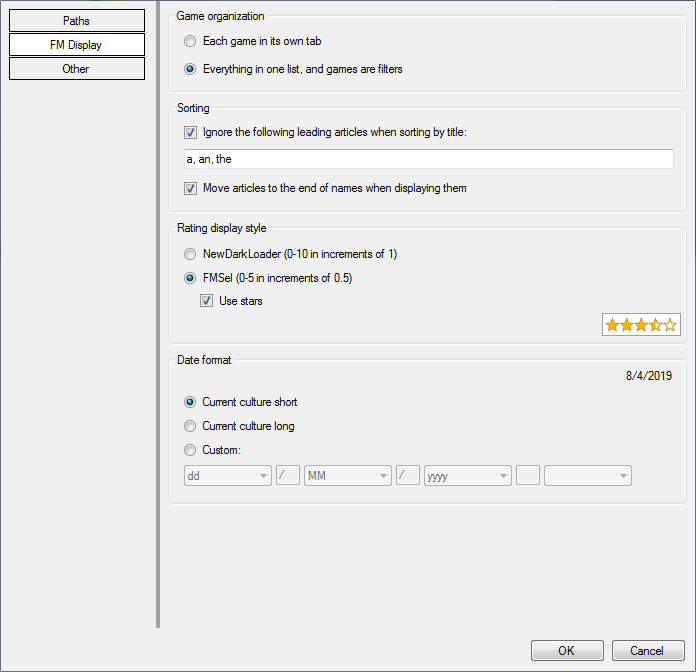
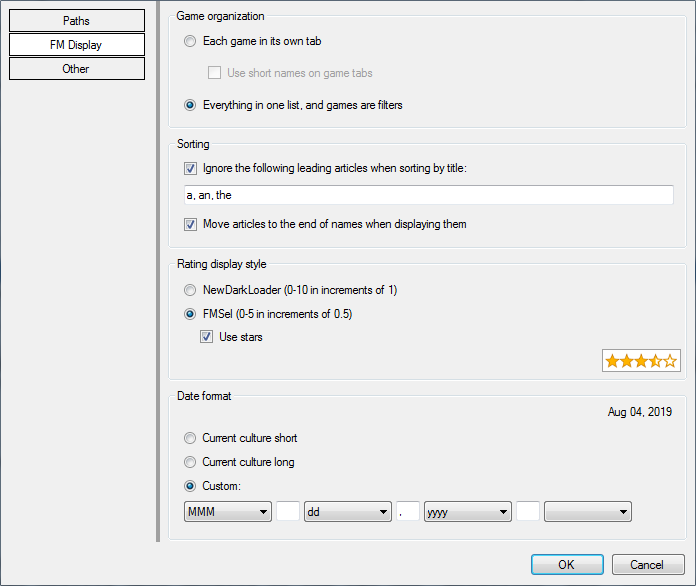
Update doc and lang changelog for v1.2

diff --git a/doc/AngelLoader documentation.html b/doc/AngelLoader documentation.html
@@ -40,7 +40,7 @@ div.headerElements:before {
 
 
 <h1><img src="images/AngelLoader_Icon_48.png" style="vertical-align:middle" /> AngelLoader</h1>
-<h4>A fan mission loader for Thief Gold, Thief II: The Metal Age, and Thief: Deadly Shadows</h4>
+<h4>A fan mission loader for Thief Gold, Thief II: The Metal Age, Thief: Deadly Shadows, and System Shock 2</h4>
 
 <h4>Official documentation</h4>
 
@@ -108,11 +108,11 @@ Currently AngelLoader is portable-only, so it must be placed in a non-protected 
 If other languages are available, you can choose them here. Changes will take effect immediately.
 
 <h4><a name="paths_to_game_exes" />Paths to game executables</h4>
-Here you can choose the executable files for the Thief games you have installed. These fields are optional - you can set some, all, or none. You will still be able to see and manage all of your fan missions even if you haven't set their corresponding executable, but of course you won't be able to install or play any of them unless their executable is set.
-<p><b>Thief 1</b> and <b>Thief 2</b> must be patched with NewDark in order for AngelLoader to be able to use them. <b>Thief 3</b> must be patched with the Sneaky Upgrade. Version 1.1.9.1 or above is recommended; while versions as far back as 1.1.3 may work, they haven't been tested and are not officially supported.</p>
+Here you can choose the executable files for the supported games you have installed. These fields are optional - you can set some, all, or none. You will still be able to see and manage all of your fan missions even if you haven't set their corresponding executable, but of course you won't be able to install or play any of them unless their executable is set.
+<p><b>Thief 1</b>, <b>Thief 2</b> and <b>System Shock 2</b> must be patched with NewDark in order for AngelLoader to be able to use them. <b>Thief 3</b> must be patched with the Sneaky Upgrade. Version 1.1.9.1 or above is recommended; while versions as far back as 1.1.3 may work, they haven't been tested and are not officially supported.</p>
 
 <h4>Steam options</h4>
-If you own one or more Thief games on Steam, you can specify the location of <code>steam.exe</code> and choose which games should be launched through it. Launching a game in this way enables access to Steam features such as the in-game overlay, play time counter, etc.
+If you own one or more supported games on Steam, you can specify the location of <code>steam.exe</code> and choose which games should be launched through it. Launching a game in this way enables access to Steam features such as the in-game overlay, play time counter, etc.
 
 <h4>FM backup path</h4>
 This is a required field. This is the folder that will be used for backing up saves, screenshots, and/or full differential backups when you uninstall a fan mission.
@@ -210,6 +210,7 @@ Displays an icon based on which game the mission is for. If unknown, it will be 
 <img src="images/Thief1_21.png" /> - Thief<br>
 <img src="images/Thief2_21.png" /> - Thief II<br>
 <img src="images/Thief3_21.png" /> - Thief: Deadly Shadows<br>
+<img src="images/Shock2_21.png" /> - System Shock 2<br>
 <img src="images/red_circle_question_mark_21.png" /> - Unsupported mission or non-mission archive (these only appear when the <a href="#show_junk">Show Unsupported</a> filter is enabled).</p>
 
 <h4>Installed</h4>
@@ -233,10 +234,10 @@ Displays the FM's rating using the <a href="#settings_rating_display_style">sele
 <h4>Finished</h4>
 Displays an icon representing which difficulty or difficulties you've finished an FM on.
 <p>
-<img src="images/Finished_Normal.png" /> - <b>Normal</b> (<b>Easy</b> for Thief: Deadly Shadows)<br>
-<img src="images/Finished_Hard.png" /> - <b>Hard</b> (<b>Normal</b> for Thief: Deadly Shadows)<br>
-<img src="images/Finished_Expert.png" /> - <b>Expert</b> (<b>Hard</b> for Thief: Deadly Shadows)<br>
-<img src="images/Finished_Extreme.png" /> - <b>Extreme</b> (<b>Expert</b> for Thief: Deadly Shadows)<br>
+<img src="images/Finished_Normal.png" /> - <b>Normal</b> (<b>Easy</b> for Thief: Deadly Shadows and System Shock 2)<br>
+<img src="images/Finished_Hard.png" /> - <b>Hard</b> (<b>Normal</b> for Thief: Deadly Shadows and System Shock 2)<br>
+<img src="images/Finished_Expert.png" /> - <b>Expert</b> (<b>Hard</b> for Thief: Deadly Shadows and System Shock 2)<br>
+<img src="images/Finished_Extreme.png" /> - <b>Extreme</b> (<b>Expert</b> for Thief: Deadly Shadows, <b>Impossible</b> for System Shock 2)<br>
 <img src="images/Finished_Unknown.png" /> - <b>Unknown</b>
 </p>
 See the <a href="#finished_on">Finished On submenu</a> for more information about difficulty levels.
@@ -275,7 +276,7 @@ This item will only appear if Thief2MP.exe was found in the Thief 2 directory. C
 If the currently selected FM is not installed, this will install it; otherwise, it will uninstall it.
 
 <h4>Open FM in DromEd</h4>
-This item will only appear if DromEd.exe was found in the game directory. Clicking it will open the currently selected FM in DromEd, installing it first if necessary.<br>
+This item will only appear if DromEd.exe (or ShockEd.exe for System Shock 2) was found in the game directory. Clicking it will open the currently selected FM in DromEd or ShockEd, installing it first if necessary.<br>
 <b>This option does not apply to Thief: Deadly Shadows.</b>
 
 <h4>Scan FM</h4>
@@ -293,6 +294,7 @@ Here you can set which difficulty or difficulties you've finished the selected m
 <b>Unknown</b> - this is mainly for compatibility with imported FMSel data, which doesn't mark difficulties for its Finished value.<br>
 For Thief 1 and Thief 2, the other difficulties are <b>Normal</b>, <b>Hard</b>, <b>Expert</b>, and <b>Extreme</b>.<br>
 For Thief: Deadly Shadows, they are <b>Easy</b>, <b>Normal</b>, <b>Hard</b>, and <b>Expert</b>.<br>
+For System Shock 2, they are <b>Easy</b>, <b>Normal</b>, <b>Hard</b>, and <b>Impossible</b>.<br>
 "<b>Extreme</b>" is not an official Thief difficulty, but is provided for compatibility with imported DarkLoader data, or to use as you see fit (to denote Ghost, etc).
 
 <h4>Web search</h4>
@@ -324,7 +326,7 @@ Sometimes, multiple different titles will be detected during a scan. If the defa
 If a date hasn't been scanned for or cannot be detected, its checkbox will be unchecked and no date will be shown.
 
 <h4>Disabled mods</h4>
-You can disable certain mods per-mission here. To see which mods you have installed, look at <code>cam_mod.ini</code> in your Thief game folder. This string must be in the format <code>modname1+modname2+modname3</code> etc. So to disable the Enhancement Pack 2, it should be:
+You can disable certain mods per-mission here. To see which mods you have installed, look at <code>cam_mod.ini</code> in your game folder. This string must be in the format <code>modname1+modname2+modname3</code> etc. So to disable the Enhancement Pack 2, it should be:
 
 <p><code>ep2</code></p>
 
@@ -376,6 +378,10 @@ The settings here are the same as the <a href="#initial_setup">Initial Setup win
 <h4>Game organization</h4>
 Here you can choose to either organize games into their own tabs, or to display your FMs as one list and allow filtering by game. When game tabs are enabled, each game will have its own selected FM and set of filters that will be retained between tab switches. Organizing games by tab can make things cleaner, but if you want to filter without regard to game (say, to find all missions by a single author who has released missions for multiple games), then having one list with game filters will work better.
 
+<p>
+  If you select the <b>Use short names on game tabs</b> checkbox, game tabs will be displayed with abbreviated names to save screen space.
+</p>
+
 <h4><a name="settings_sorting" />Sorting</h4>
 Here you can choose to ignore leading articles when sorting FMs. For example, the FM "The Seven Sisters" will be considered to start with an "S". If you choose to move articles to the end of names when displaying them, then "The Seven Sisters" will be displayed as "Seven Sisters, The". The default set of articles is "a, an, the", but you can add more (for example to support other languages). These articles are not part of the normal localization functionality, because they apply to fan mission names, which can be any language; therefore the app-wide language setting doesn't apply to them.
 
@@ -393,7 +399,7 @@ Here you can choose how to display dates: either in the short or long form of yo
 If other languages are available, you can choose them here. Changes will take effect immediately.
 
 <h4><a name="settings_audio_conversion" />Convert .wavs to 16 bit on install</h4>
-Depending on your setup, .wav files that are higher than 16 bit may cause audio problems when played by Thief 1 or Thief 2, such as intermittent or constant static noise. Converting all .wav files to 16 bit will solve this issue, and does not result in a perceptible loss of fidelity. Therefore, this option is turned on by default.<br>
+Depending on your setup, .wav files that are higher than 16 bit may cause audio problems when played by Dark Engine games, such as intermittent or constant static noise. Converting all .wav files to 16 bit will solve this issue, and does not result in a perceptible loss of fidelity. Therefore, this option is turned on by default.<br>
 <b>This option has no effect for Thief: Deadly Shadows.</b>
 
 <h4>Convert .oggs to .wavs on install</h4>
@@ -483,9 +489,9 @@ I'd like to thank the following people, in no particular order:
 <a href="https://github.com/squid-box/SevenZipSharp">SquidBox.SevenZipSharp</a><br>
 <a href="https://ffmpeg.org/">ffmpeg</a><br>
 <a href="https://github.com/cmxl/FFmpeg.NET">FFmpeg.NET</a><br>
-<a href="https://github.com/gmamaladze/globalmousekeyhook">GlobalMouseKeyHook</a><br>
 <a href="https://github.com/khalidsalomao/SimpleHelpers.Net/">SimpleHelpers.Net</a><br>
 <a href="https://github.com/yinyue200/ude">UDE.NetStandard</a><br>
+<p><b>and portions of code from the following:</b></p>
 <a href="https://github.com/caioproiete/ookii-dialogs-winforms">Ookii Dialogs</a><br>
 <a href="https://github.com/dotnet/corefx">Modified portions of .NET Core's System.IO.Compression code</a> (tuned for scanning performance)<br>
 

diff --git a/Localizable_Strings_Changelog.md b/Localizable_Strings_Changelog.md
@@ -1,4 +1,221 @@
+## Localizable text changelog for the benefit of translators
+
+### Key:
+Red lines with a `-` in front of them are lines that have been **removed** for the listed version.
+```diff
+- removed line
+```
+Green lines with a `+` in front of them are lines that have been **added** for the listed version.
+```diff
++ added line
+```
+Black lines with no `-` or `+` in front of them are lines that have not changed, and are just there to give you context on where the changed text is located.
+```diff
+AngelLoader is awesome.
+- You can use it to load your fan missions and become fantastigreat.
++ You can use it to load, play, and manage your fan missions and become tafferiffic.
+Thanks for checking it out!
+```
+
 ## List of new strings by version
+
+### v1.2:
+
+#### Documentation:
+
+#### Images:
+
+The following image has been **added**:  
+`Shock2_21.png`  
+
+The following images have been **updated** to show System Shock 2 support:  
+`main_window_full_960.png`  
+`fms_list_960.png`  
+`initial_setup.png`  
+`setup_paths_tab.png`  
+
+The following image has been **updated** to show short game tab name support:  
+`setup_fm_display_tab.png`  
+
+#### AngelLoader documentation.html:
+
+```diff
+<h1><img src="images/AngelLoader_Icon_48.png" style="vertical-align:middle" /> AngelLoader</h1>
+- <h4>A fan mission loader for Thief Gold, Thief II: The Metal Age, and Thief: Deadly Shadows</h4>
++ <h4>A fan mission loader for Thief Gold, Thief II: The Metal Age, Thief: Deadly Shadows, and System Shock 2</h4>
+```
+
+```diff
+<h4><a name="paths_to_game_exes" />Paths to game executables</h4>
+- Here you can choose the executable files for the Thief games you have installed. These fields are optional - you can set some, all, or none. You will still be able to see and manage all of your fan missions even if you haven't set their corresponding executable, but of course you won't be able to install or play any of them unless their executable is set.
+- <p><b>Thief 1</b> and <b>Thief 2</b> must be patched with NewDark in order for AngelLoader to be able to use them. <b>Thief 3</b> must be patched with the Sneaky Upgrade. Version 1.1.9.1 or above is recommended; while versions as far back as 1.1.3 may work, they haven't been tested and are not officially supported.</p>
++ Here you can choose the executable files for the supported games you have installed. These fields are optional - you can set some, all, or none. You will still be able to see and manage all of your fan missions even if you haven't set their corresponding executable, but of course you won't be able to install or play any of them unless their executable is set.
++ <p><b>Thief 1</b>, <b>Thief 2</b> and <b>System Shock 2</b> must be patched with NewDark in order for AngelLoader to be able to use them. <b>Thief 3</b> must be patched with the Sneaky Upgrade. Version 1.1.9.1 or above is recommended; while versions as far back as 1.1.3 may work, they haven't been tested and are not officially supported.</p>
+
+<h4>Steam options</h4>
+- If you own one or more Thief games on Steam, you can specify the location of <code>steam.exe</code> and choose which games should be launched through it. Launching a game in this way enables access to Steam features such as the in-game overlay, play time counter, etc.
++ If you own one or more supported games on Steam, you can specify the location of <code>steam.exe</code> and choose which games should be launched through it. Launching a game in this way enables access to Steam features such as the in-game overlay, play time counter, etc.
+```
+
+```diff
+<h4>Game</h4>
+Displays an icon based on which game the mission is for. If unknown, it will be blank. The icons are:
+<p>
+<img src="images/Thief1_21.png" /> - Thief<br>
+<img src="images/Thief2_21.png" /> - Thief II<br>
+<img src="images/Thief3_21.png" /> - Thief: Deadly Shadows<br>
++ <img src="images/Shock2_21.png" /> - System Shock 2<br>
+<img src="images/red_circle_question_mark_21.png" /> - Unsupported mission or non-mission archive (these only appear when the <a href="#show_junk">Show Unsupported</a> filter is enabled).</p>
+```
+
+```diff
+<h4>Finished</h4>
+Displays an icon representing which difficulty or difficulties you've finished an FM on.
+<p>
+- <img src="images/Finished_Normal.png" /> - <b>Normal</b> (<b>Easy</b> for Thief: Deadly Shadows)<br>
+- <img src="images/Finished_Hard.png" /> - <b>Hard</b> (<b>Normal</b> for Thief: Deadly Shadows)<br>
+- <img src="images/Finished_Expert.png" /> - <b>Expert</b> (<b>Hard</b> for Thief: Deadly Shadows)<br>
+- <img src="images/Finished_Extreme.png" /> - <b>Extreme</b> (<b>Expert</b> for Thief: Deadly Shadows)<br>
++ <img src="images/Finished_Normal.png" /> - <b>Normal</b> (<b>Easy</b> for Thief: Deadly Shadows and System Shock 2)<br>
++ <img src="images/Finished_Hard.png" /> - <b>Hard</b> (<b>Normal</b> for Thief: Deadly Shadows and System Shock 2)<br>
++ <img src="images/Finished_Expert.png" /> - <b>Expert</b> (<b>Hard</b> for Thief: Deadly Shadows and System Shock 2)<br>
++ <img src="images/Finished_Extreme.png" /> - <b>Extreme</b> (<b>Expert</b> for Thief: Deadly Shadows, <b>Impossible</b> for System Shock 2)<br>
+<img src="images/Finished_Unknown.png" /> - <b>Unknown</b>
+</p>
+See the <a href="#finished_on">Finished On submenu</a> for more information about difficulty levels.
+```
+
+```diff
+<h4>Open FM in DromEd</h4>
+- This item will only appear if DromEd.exe was found in the game directory. Clicking it will open the currently selected FM in DromEd, installing it first if necessary.<br>
++ This item will only appear if DromEd.exe (or ShockEd.exe for System Shock 2) was found in the game directory. Clicking it will open the currently selected FM in DromEd or ShockEd, installing it first if necessary.<br>
+<b>This option does not apply to Thief: Deadly Shadows.</b>
+```
+
+```diff
+<h4><a name="finished_on" />Finished On submenu</h4>
+Here you can set which difficulty or difficulties you've finished the selected mission on.<br>
+<b>Unknown</b> - this is mainly for compatibility with imported FMSel data, which doesn't mark difficulties for its Finished value.<br>
+For Thief 1 and Thief 2, the other difficulties are <b>Normal</b>, <b>Hard</b>, <b>Expert</b>, and <b>Extreme</b>.<br>
+For Thief: Deadly Shadows, they are <b>Easy</b>, <b>Normal</b>, <b>Hard</b>, and <b>Expert</b>.<br>
++ For System Shock 2, they are <b>Easy</b>, <b>Normal</b>, <b>Hard</b>, and <b>Impossible</b>.<br>
+"<b>Extreme</b>" is not an official Thief difficulty, but is provided for compatibility with imported DarkLoader data, or to use as you see fit (to denote Ghost, etc).
+```
+
+```diff
+<h4>Disabled mods</h4>
+-You can disable certain mods per-mission here. To see which mods you have installed, look at <code>cam_mod.ini</code> in your Thief game folder. This string must be in the format <code>modname1+modname2+modname3</code> etc. So to disable the Enhancement Pack 2, it should be:
++ You can disable certain mods per-mission here. To see which mods you have installed, look at <code>cam_mod.ini</code> in your game folder. This string must be in the format <code>modname1+modname2+modname3</code> etc. So to disable the Enhancement Pack 2, it should be:
+
+<p><code>ep2</code></p>
+
+<p>To disable the Enhancement Pack 2 and the HD mod, it would be:</p>
+
+<p><code>ep2+hdmod</code></p>
+
+<p>To disable all mods for the current FM, check the <b>Disable all mods</b> checkbox.</p>
+```
+
+```diff
+<h4>Game organization</h4>
+Here you can choose to either organize games into their own tabs, or to display your FMs as one list and allow filtering by game. When game tabs are enabled, each game will have its own selected FM and set of filters that will be retained between tab switches. Organizing games by tab can make things cleaner, but if you want to filter without regard to game (say, to find all missions by a single author who has released missions for multiple games), then having one list with game filters will work better.
+
++ <p>
++  If you select the <b>Use short names on game tabs</b> checkbox, game tabs will be displayed with abbreviated names to save screen space.
++ </p>
+```
+
+```diff
+<h4><a name="settings_audio_conversion" />Convert .wavs to 16 bit on install</h4>
+- Depending on your setup, .wav files that are higher than 16 bit may cause audio problems when played by Thief 1 or Thief 2, such as intermittent or constant static noise. Converting all .wav files to 16 bit will solve this issue, and does not result in a perceptible loss of fidelity. Therefore, this option is turned on by default.<br>
++ Depending on your setup, .wav files that are higher than 16 bit may cause audio problems when played by Dark Engine games, such as intermittent or constant static noise. Converting all .wav files to 16 bit will solve this issue, and does not result in a perceptible loss of fidelity. Therefore, this option is turned on by default.<br>
+<b>This option has no effect for Thief: Deadly Shadows.</b>
+```
+
+```diff
+<p><b>AngelLoader uses the following libraries:</b></p>
+<a href="https://www.7-zip.org/">7z.dll</a><br>
+<a href="https://github.com/squid-box/SevenZipSharp">SquidBox.SevenZipSharp</a><br>
+<a href="https://ffmpeg.org/">ffmpeg</a><br>
+<a href="https://github.com/cmxl/FFmpeg.NET">FFmpeg.NET</a><br>
+- <a href="https://github.com/gmamaladze/globalmousekeyhook">GlobalMouseKeyHook</a><br>
+<a href="https://github.com/khalidsalomao/SimpleHelpers.Net/">SimpleHelpers.Net</a><br>
+<a href="https://github.com/yinyue200/ude">UDE.NetStandard</a><br>
++ <p><b>and portions of code from the following:</b></p>
+<a href="https://github.com/caioproiete/ookii-dialogs-winforms">Ookii Dialogs</a><br>
+<a href="https://github.com/dotnet/corefx">Modified portions of .NET Core's System.IO.Compression code</a> (tuned for scanning performance)<br>
+```
+#### English.ini:  
+
+```diff
+[Global]
+Thief1=Thief 1
+Thief2=Thief 2
+Thief3=Thief 3
++ SystemShock2=System Shock 2
+
++ Thief1_Short=T1
++ Thief2_Short=T2
++ Thief3_Short=T3
++ SystemShock2_Short=SS2
+
+Thief1_Colon=Thief 1:
+Thief2_Colon=Thief 2:
+Thief3_Colon=Thief 3:
++ SystemShock2_Colon=System Shock 2:
+```
+
+```diff
+[AlertMessages]
+Play_ExecutableNotFound=Executable file not specified or not found. Unable to play.
+Play_GamePathNotFound=Game path not found. Unable to play.
+Play_ExecutableNotFoundFM=Executable file not specified or not found. Unable to play FM.
+Play_GameIsRunning=Game is already running. Exit it first!
+- Play_AnyGameIsRunning=One or more Thief games are already running. Please exit them first.
++ Play_AnyGameIsRunning=One or more supported games are already running. Please exit them first.
+Play_UnknownGameType=Selected FM's game type is not known. The FM is either not scanned or is not an FM. Unable to play.
+Play_ConfirmMessage=Play FM?
+
+DromEd_ExecutableNotFound=DromEd.exe was not found in the game directory. Unable to open FM.
++ ShockEd_ExecutableNotFound=ShockEd.exe was not found in the game directory. Unable to open FM.
+DromEd_UnknownGameType=Selected FM's game type is not known. The FM is either not scanned or is not an FM. Unable to open FM.
+```
+
+```diff
+[Difficulties]
+Easy=Easy
+Normal=Normal
+Hard=Hard
+Expert=Expert
+Extreme=Extreme
++ Impossible=Impossible
+Unknown=Unknown
+```
+
+```diff
+[FMsList]
+FMMenu_PlayFM_Multiplayer=Play FM (multiplayer)
+FMMenu_InstallFM=Install FM
+FMMenu_UninstallFM=Uninstall FM
+FMMenu_OpenInDromEd=Open FM in DromEd
++ FMMenu_OpenInShockEd=Open FM in ShockEd
+FMMenu_Rating=Rating
+FMMenu_FinishedOn=Finished on
+FMMenu_ConvertAudio=Convert audio
+FMMenu_ScanFM=Scan FM
+FMMenu_WebSearch=Web search
+```
+
+```diff
+[SettingsWindow]
+- Paths_Thief1AndThief2RequireNewDark=* Thief 1 and Thief 2 require NewDark.
++ Paths_DarkEngineGamesRequireNewDark=* Thief 1, Thief 2 and System Shock 2 require NewDark.
+
+FMDisplay_GameOrganization=Game organization
+FMDisplay_GameOrganizationByTab=Each game in its own tab
++ FMDisplay_UseShortGameTabNames=Use short names on game tabs
+FMDisplay_GameOrganizationOneList=Everything in one list, and games are filters
+```
 
 ### v1.1.6:
 
